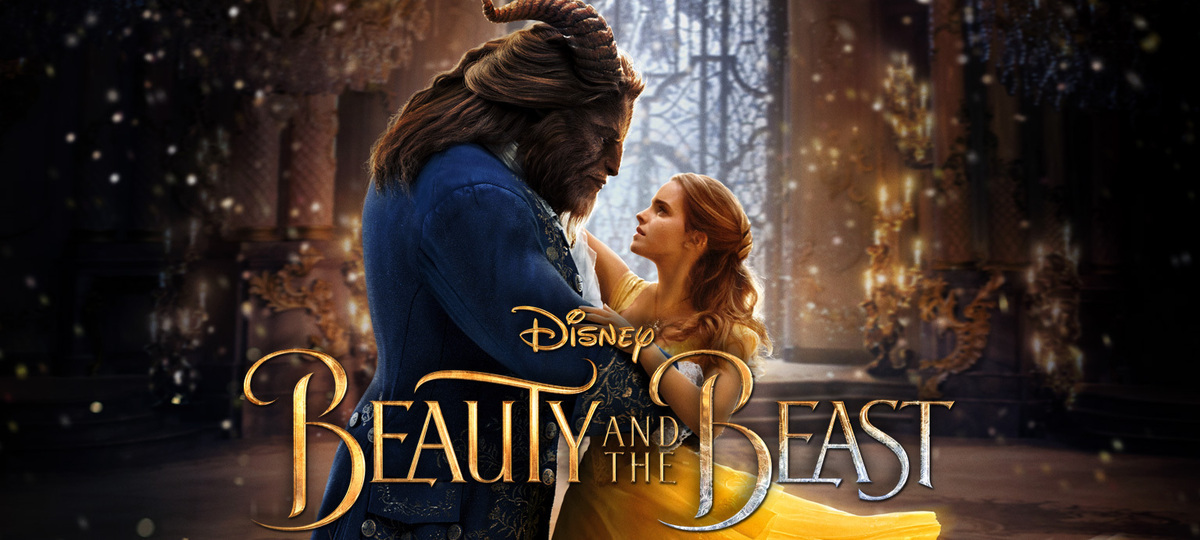
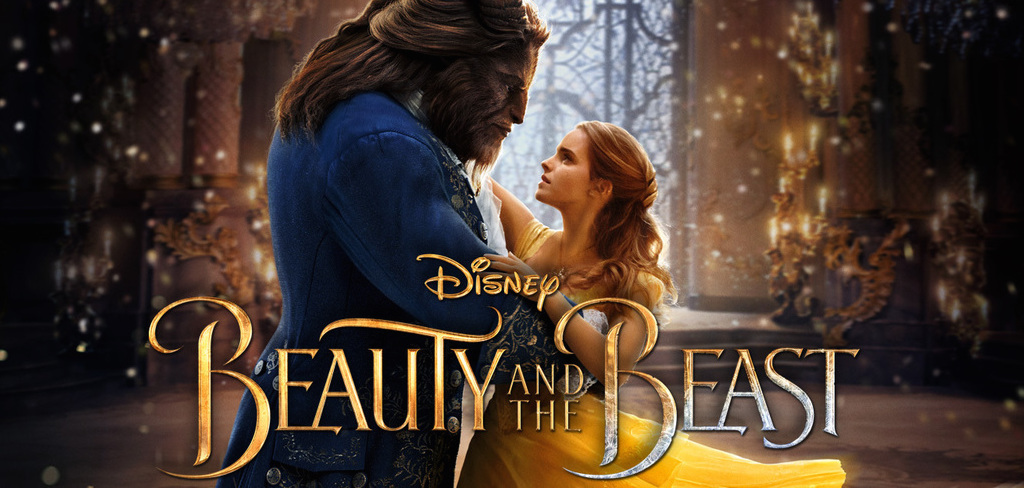
fixed img proportions

diff --git a/index.html b/index.html
@@ -11,6 +11,7 @@
 </head>
 <body>
 
+//carousel
   <div id="carouselExampleSlidesOnly" class="carousel slide" data-ride="carousel">
     <div class="carousel-inner" role="listbox">
       <div class="item active">
